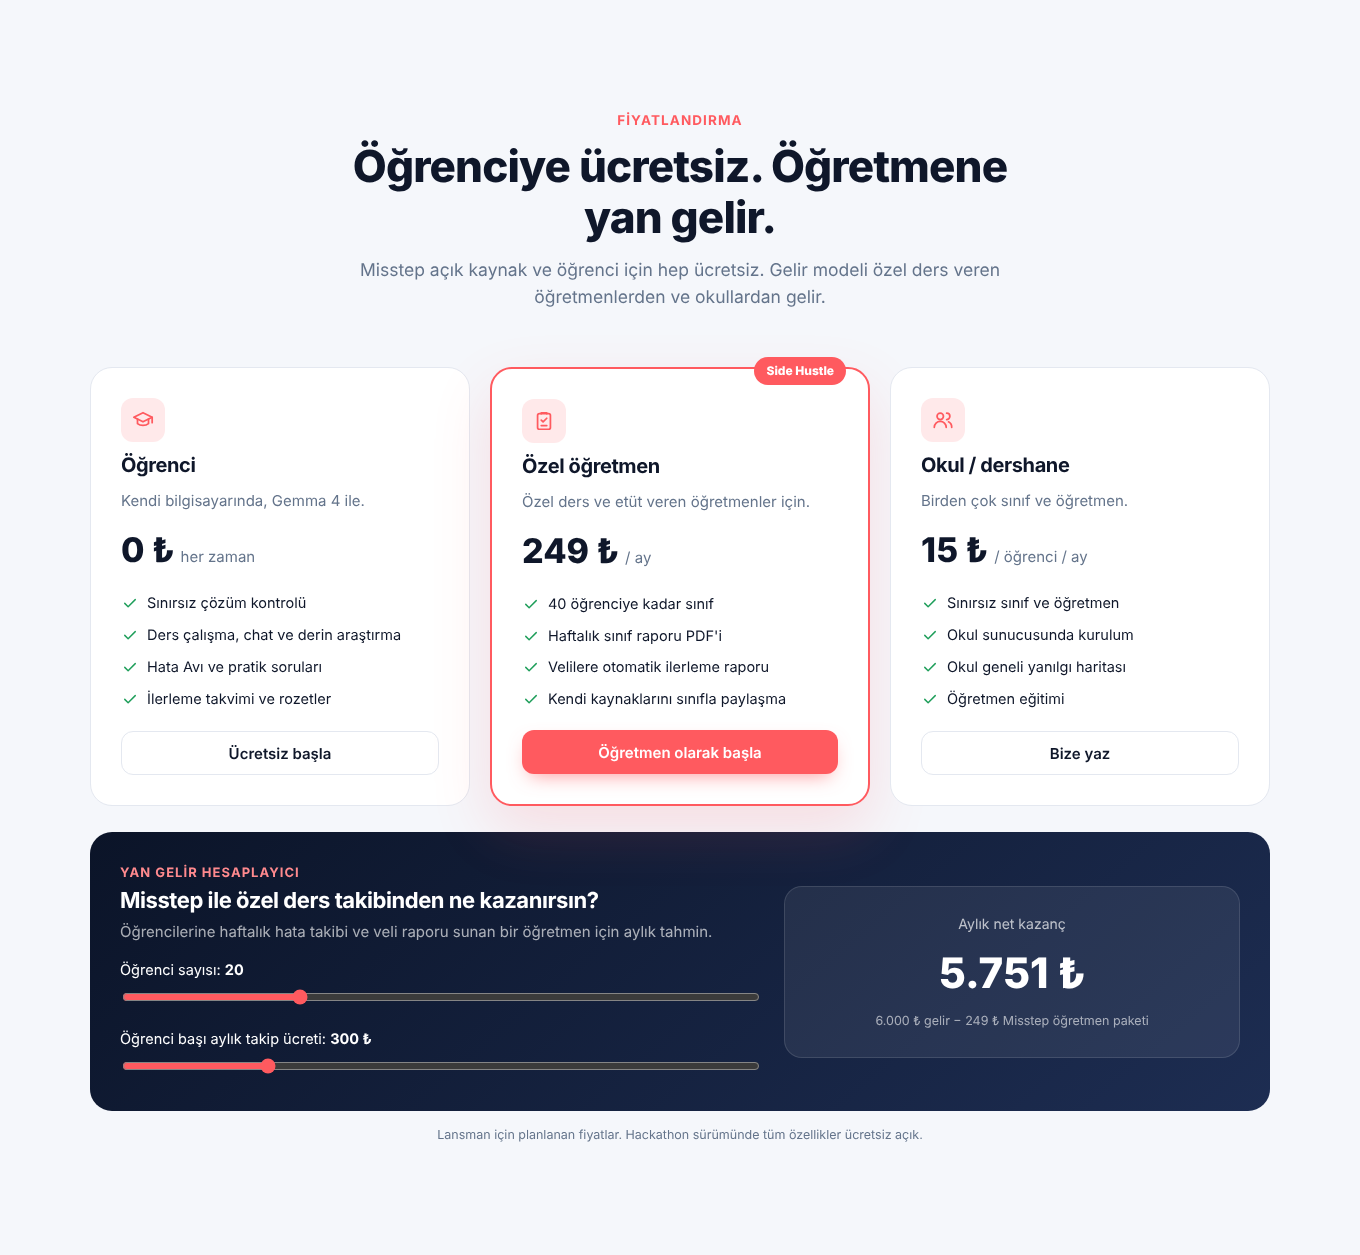
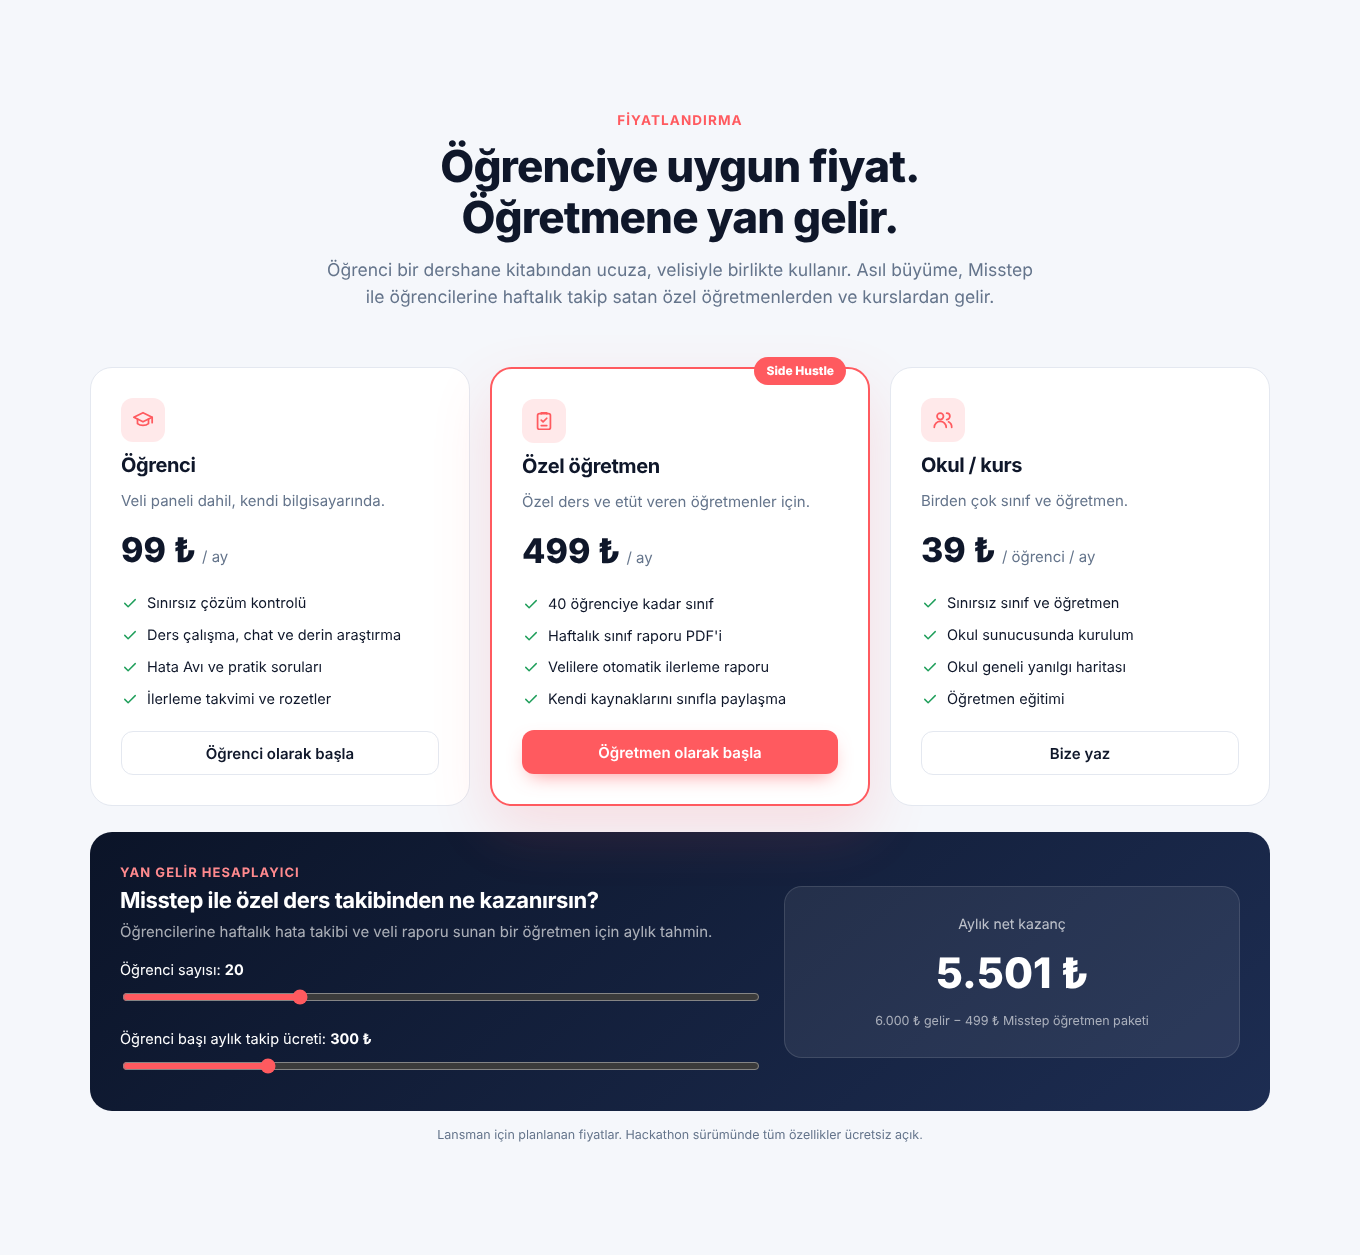
Update planned prices: student 99, tutor 499, school 39 per student
Claude-Session: https://claude.ai/code/session_01Pdp144xZmzqroQPSBkhPAh

diff --git a/web/js/i18n.js b/web/js/i18n.js
@@ -2,7 +2,7 @@
 const T = {
   tr: {
     nav_how: "Nasıl çalışır", nav_features: "Özellikler", nav_roles: "Kimler için", nav_about: "Hakkında", nav_contact: "İletişim",
-    login: "Giriş yap", register: "Üye ol", start_free: "Ücretsiz başla", see_how: "Nasıl çalışır?", go_app: "Panele git",
+    login: "Giriş yap", register: "Üye ol", start_free: "Hemen başla", see_how: "Nasıl çalışır?", go_app: "Panele git",
 
     hero_eyebrow: "Yeni", hero_eyebrow_t: "Gemma 4 ile çalışan yerel çalışma arkadaşı",
     hero_title_1: "Yanlış cevabı değil,", hero_title_2: "yanlış adımı", hero_title_3: "bul.",
@@ -51,7 +51,7 @@ const T = {
     q1: "Model yanlış bir şeyi doğru diye gösterebilir mi?", a1: "Hayır. Gemma 4 yalnızca okur ve anlatır. Bir adımın doğru ya da yanlış olduğuna SymPy karar verir; modelin cümleleri bu kararı değiştiremez.",
     q2: "İnternet bağlantısı gerekir mi?", a2: "Hayır. Model, veritabanı ve tüm hesaplamalar senin bilgisayarında çalışır. Öğrenci verisi dışarı gönderilmez.",
     q3: "Hangi konuları kapsıyor?", a3: "7–10. sınıf cebir: parantez ve dağılma, denklem çözme, terimler, kesirler, özdeşlikler, üslü ve köklü ifadeler, ikinci dereceden denklemler.",
-    q4: "Ücretli mi?", a4: "Öğrenciler için ücretsiz. Okullar ve dershaneler için sınıf yönetimi ve raporlama sunan bir kurum planı düşünüyoruz.",
+    q4: "Ücretli mi?", a4: "Öğrenci paketi aylık 99 ₺ ve veli panelini de içerir. Özel öğretmen paketi 499 ₺/ay, okul ve kurs paketi öğrenci başı 39 ₺/ay. Kod açık kaynaktır; hackathon sürümünde her şey açık.",
 
     cta_t: "Bir sonraki hatan, en iyi öğretmenin olsun.", cta_p: "Hesabını oluştur, ilk çözümünü bir dakikada kontrol et.",
     foot_desc: "Cebir çözümlerinde hatanın yapıldığı adımı bulan, yerel çalışan açık kaynak çalışma arkadaşı.",
@@ -165,7 +165,7 @@ const T = {
   },
   en: {
     nav_how: "How it works", nav_features: "Features", nav_roles: "Who it's for", nav_about: "About", nav_contact: "Contact",
-    login: "Log in", register: "Sign up", start_free: "Start for free", see_how: "How does it work?", go_app: "Go to dashboard",
+    login: "Log in", register: "Sign up", start_free: "Get started", see_how: "How does it work?", go_app: "Go to dashboard",
 
     hero_eyebrow: "New", hero_eyebrow_t: "A local study companion powered by Gemma 4",
     hero_title_1: "Don't find the wrong answer,", hero_title_2: "find the wrong step", hero_title_3: ".",
@@ -214,7 +214,7 @@ const T = {
     q1: "Can the model mark something wrong as correct?", a1: "No. Gemma 4 only reads and explains. SymPy decides whether a step is right; the model's words cannot change that decision.",
     q2: "Does it need the internet?", a2: "No. The model, the database and all computation run on your computer. Student data is never sent anywhere.",
     q3: "Which topics are covered?", a3: "Grade 7–10 algebra: brackets, solving equations, terms, fractions, identities, powers and roots, quadratic equations.",
-    q4: "Is it paid?", a4: "Free for students. We plan an institution plan for schools with class management and reporting.",
+    q4: "Is it paid?", a4: "The student plan is ₺99 a month and includes the parent panel. The tutor plan is ₺499 a month, schools and courses pay ₺39 per student a month. The code is open source; everything is open in the hackathon build.",
 
     cta_t: "Let your next mistake be your best teacher.", cta_p: "Create your account and check your first solution in a minute.",
     foot_desc: "An open-source, local study companion that finds the step where an algebra solution went wrong.",
@@ -527,16 +527,16 @@ Object.assign(T.tr, {
   why_r1: "Sorunun doğru cevabını gösterir", why_r2: "Öğrencinin KENDİ çözümünde ilk hatalı adımı bulur",
   why_r3: "Hatanın arkasındaki yanılgıyı adlandırır (13 yanılgı)", why_r4: "SymPy ile doğrulanmış teşhis soruları üretir",
   why_r5: "Bilgisayarda çalışır, öğrencinin verisi dışarı çıkmaz", why_r6: "Öğretmene sınıf, veliye çocuk raporu verir",
-  pr_k: "Fiyatlandırma", pr_t: "Öğrenciye ücretsiz. Öğretmene yan gelir.",
-  pr_p: "Misstep açık kaynak ve öğrenci için hep ücretsiz. Gelir modeli özel ders veren öğretmenlerden ve okullardan gelir.",
+  pr_k: "Fiyatlandırma", pr_t: "Öğrenciye uygun fiyat. Öğretmene yan gelir.",
+  pr_p: "Öğrenci bir dershane kitabından ucuza, velisiyle birlikte kullanır. Asıl büyüme, Misstep ile öğrencilerine haftalık takip satan özel öğretmenlerden ve kurslardan gelir.",
   pr_hot: "Side Hustle", pr_note: "Lansman için planlanan fiyatlar. Hackathon sürümünde tüm özellikler ücretsiz açık.",
-  pl_free: "Öğrenci", pl_free_d: "Kendi bilgisayarında, Gemma 4 ile.", pl_free_p: "0 ₺", pl_free_u: "her zaman",
+  pl_free: "Öğrenci", pl_free_d: "Veli paneli dahil, kendi bilgisayarında.", pl_free_p: "99 ₺", pl_free_u: "/ ay",
   pl_free1: "Sınırsız çözüm kontrolü", pl_free2: "Ders çalışma, chat ve derin araştırma", pl_free3: "Hata Avı ve pratik soruları", pl_free4: "İlerleme takvimi ve rozetler",
-  pl_free_cta: "Ücretsiz başla",
-  pl_tutor: "Özel öğretmen", pl_tutor_d: "Özel ders ve etüt veren öğretmenler için.", pl_tutor_p: "249 ₺", pl_tutor_u: "/ ay",
+  pl_free_cta: "Öğrenci olarak başla",
+  pl_tutor: "Özel öğretmen", pl_tutor_d: "Özel ders ve etüt veren öğretmenler için.", pl_tutor_p: "499 ₺", pl_tutor_u: "/ ay",
   pl_tutor1: "40 öğrenciye kadar sınıf", pl_tutor2: "Haftalık sınıf raporu PDF'i", pl_tutor3: "Velilere otomatik ilerleme raporu", pl_tutor4: "Kendi kaynaklarını sınıfla paylaşma",
   pl_tutor_cta: "Öğretmen olarak başla",
-  pl_school: "Okul / dershane", pl_school_d: "Birden çok sınıf ve öğretmen.", pl_school_p: "15 ₺", pl_school_u: "/ öğrenci / ay",
+  pl_school: "Okul / kurs", pl_school_d: "Birden çok sınıf ve öğretmen.", pl_school_p: "39 ₺", pl_school_u: "/ öğrenci / ay",
   pl_school1: "Sınırsız sınıf ve öğretmen", pl_school2: "Okul sunucusunda kurulum", pl_school3: "Okul geneli yanılgı haritası", pl_school4: "Öğretmen eğitimi",
   pl_school_cta: "Bize yaz",
   earn_k: "Yan gelir hesaplayıcı", earn_t: "Misstep ile özel ders takibinden ne kazanırsın?",
@@ -553,16 +553,16 @@ Object.assign(T.en, {
   why_r1: "Shows the correct answer", why_r2: "Finds the first wrong step in the student's OWN solution",
   why_r3: "Names the misconception behind it (13 misconceptions)", why_r4: "Generates diagnostic questions verified by SymPy",
   why_r5: "Runs on your computer; the student's data never leaves it", why_r6: "Class reports for teachers, child reports for parents",
-  pr_k: "Pricing", pr_t: "Free for students. A side income for teachers.",
-  pr_p: "Misstep is open source and always free for students. Revenue comes from tutors and schools.",
+  pr_k: "Pricing", pr_t: "Affordable for students. A side income for teachers.",
+  pr_p: "A student pays less than a prep book, and the parent panel is included. Growth comes from tutors and courses who sell weekly follow-up with Misstep.",
   pr_hot: "Side Hustle", pr_note: "Planned launch prices. Everything is free in the hackathon build.",
-  pl_free: "Student", pl_free_d: "On your own computer, with Gemma 4.", pl_free_p: "₺0", pl_free_u: "forever",
+  pl_free: "Student", pl_free_d: "Parent panel included, on your own computer.", pl_free_p: "₺99", pl_free_u: "/ month",
   pl_free1: "Unlimited solution checks", pl_free2: "Study chat and deep research", pl_free3: "Mistake Hunt and practice", pl_free4: "Progress calendar and badges",
-  pl_free_cta: "Start free",
-  pl_tutor: "Tutor", pl_tutor_d: "For private tutors and study centres.", pl_tutor_p: "₺249", pl_tutor_u: "/ month",
+  pl_free_cta: "Start as a student",
+  pl_tutor: "Tutor", pl_tutor_d: "For private tutors and study centres.", pl_tutor_p: "₺499", pl_tutor_u: "/ month",
   pl_tutor1: "A class of up to 40 students", pl_tutor2: "Weekly class report PDF", pl_tutor3: "Automatic progress reports for parents", pl_tutor4: "Share your own materials with the class",
   pl_tutor_cta: "Start as a teacher",
-  pl_school: "School", pl_school_d: "Many classes and teachers.", pl_school_p: "₺15", pl_school_u: "/ student / month",
+  pl_school: "School / course", pl_school_d: "Many classes and teachers.", pl_school_p: "₺39", pl_school_u: "/ student / month",
   pl_school1: "Unlimited classes and teachers", pl_school2: "Installed on the school's server", pl_school3: "School-wide misconception map", pl_school4: "Teacher training",
   pl_school_cta: "Contact us",
   earn_k: "Side income calculator", earn_t: "What can you earn tutoring with Misstep?",

diff --git a/web/js/landing.js b/web/js/landing.js
@@ -222,7 +222,7 @@ export async function renderLanding(root) {
 }
 
 // "Side hustle" calculator: what a tutor earns running Misstep-backed weekly follow-ups for paying students.
-const TUTOR_PLAN = 249;
+const TUTOR_PLAN = 499;
 function wireEarn(root) {
   const n = $("#en", root), f = $("#ef", root);
   const tl = (v) => `${v.toLocaleString(getLang() === "en" ? "en-US" : "tr-TR")} ₺`;

diff --git a/README.md b/README.md
@@ -91,18 +91,18 @@ A hand-written evaluation set: 43 solutions covering all 13 misconceptions. Run 
 
 Every failing case is listed in the output and on the About page.
 
-## Business model: free for students, a side income for tutors
+## Business model: affordable for students, a side income for tutors
 ![Pricing](assets/screenshot-pricing.png)
 
-The student app is open source and free forever. Revenue comes from the people who use Misstep with paying students. The prices below are planned launch prices; the hackathon build is free.
+The code is open source (MIT). The paid plans cover a ready-to-run install, updates and support. Growth comes from tutors and courses who sell weekly follow-up to their students. The prices below are planned launch prices; everything is open in the hackathon build.
 
 | Plan | Price | For |
 | --- | --- | --- |
-| Student | ₺0 | Unlimited checks, study chat, deep research, practice, Mistake Hunt |
-| Tutor | ₺249 / month | Private tutors: a class of up to 40, weekly class PDF, automatic parent reports |
-| School | ₺15 / student / month | Many classes, install on the school's server, school-wide misconception map |
+| Student | ₺99 / month | Unlimited checks, study chat, deep research, practice, Mistake Hunt; parent panel included |
+| Tutor | ₺499 / month | Private tutors: a class of up to 40, weekly class PDF, automatic parent reports |
+| School / course | ₺39 / student / month | Many classes, install on the school's server, school-wide misconception map |
 
-The landing page includes a **side-income calculator**. For example, a tutor who charges 30 students ₺300 a month for weekly mistake tracking earns ₺9,000 against a ₺249 plan. The pitch and the 3-minute demo script are in [PITCH.md](PITCH.md). The full technical report (models, architecture, verification, RAG, evaluation, limits) is in [docs/TEKNIK-RAPOR.md](docs/TEKNIK-RAPOR.md).
+The landing page includes a **side-income calculator**. For example, a tutor who charges 30 students ₺300 a month for weekly mistake tracking earns ₺9,000 against a ₺499 plan. The pitch and the 3-minute demo script are in [PITCH.md](PITCH.md). The full technical report (models, architecture, verification, RAG, evaluation, limits) is in [docs/TEKNIK-RAPOR.md](docs/TEKNIK-RAPOR.md).
 
 ## Quick start
 ```bash
@@ -164,7 +164,7 @@ samples/               sample study PDFs
 Passwords are stored as salted PBKDF2 hashes in a local SQLite file. No data is sent anywhere.
 
 ## Türkçe özet
-Misstep, 7–10. sınıf cebir için yerel ve açık kaynak bir çalışma arkadaşıdır. Öğrencinin el yazısı çözümünü Gemma 4 ile okur ve SymPy ile her adımı doğrular. İlk hatalı adımı ve arkasındaki yanılgıyı bulur, notlardan kaynaklı açıklama yapar ve o yanılgıya özel doğrulanmış sorular üretir. Konu bazında ilerlemeyi takip eder. Öğretmene sınıf tablosu ve haftalık PDF, veliye çocuk raporu sunar. Öğrenciye ücretsizdir; gelir, özel ders veren öğretmenlerden ve okullardan gelir.
+Misstep, 7–10. sınıf cebir için yerel ve açık kaynak bir çalışma arkadaşıdır. Öğrencinin el yazısı çözümünü Gemma 4 ile okur ve SymPy ile her adımı doğrular. İlk hatalı adımı ve arkasındaki yanılgıyı bulur, notlardan kaynaklı açıklama yapar ve o yanılgıya özel doğrulanmış sorular üretir. Konu bazında ilerlemeyi takip eder. Öğretmene sınıf tablosu ve haftalık PDF, veliye çocuk raporu sunar. Öğrenci paketi 99 ₺/ay (veli dahil), özel öğretmen paketi 499 ₺/ay, okul ve kurs paketi öğrenci başı 39 ₺/ay.
 
 ## License
 MIT. DejaVu fonts are under their own license (`assets/fonts/README.txt`).

diff --git a/PITCH.md b/PITCH.md
@@ -6,19 +6,19 @@
 ## Kime satıyoruz
 | Kim | Acısı | Misstep ne verir | Kim öder |
 |---|---|---|---|
-| 7–10. sınıf öğrenci (LGS / lise) | Cevabı görüyor ama neden yanlış yaptığını bilmiyor | İlk hatalı adım + yanılgının adı + doğrulanmış teşhis soruları | Ücretsiz |
-| **Özel ders öğretmeni** (Side Hustle) | Her hafta kâğıt okumak saatler alıyor, veliye rapor vermek zor | Sınıf tablosu, haftalık PDF, veli raporu | 249 ₺/ay |
-| Okul / dershane | Sınıfta hangi yanılgı yaygın bilinmiyor, veri gizliliği | Okul sunucusunda kurulum, yanılgı haritası | 15 ₺/öğrenci/ay |
-| Veli | Çocuğun neyde zorlandığını göremiyor | Çocuk başına ilerleme ve zayıf konu | Öğretmen paketine dahil |
+| 7–10. sınıf öğrenci (LGS / lise) | Cevabı görüyor ama neden yanlış yaptığını bilmiyor | İlk hatalı adım + yanılgının adı + doğrulanmış teşhis soruları | 99 ₺/ay (veli dahil) |
+| **Özel ders öğretmeni** (Side Hustle) | Her hafta kâğıt okumak saatler alıyor, veliye rapor vermek zor | Sınıf tablosu, haftalık PDF, veli raporu | 499 ₺/ay |
+| Okul / dershane | Sınıfta hangi yanılgı yaygın bilinmiyor, veri gizliliği | Okul sunucusunda kurulum, yanılgı haritası | 39 ₺/öğrenci/ay |
+| Veli | Çocuğun neyde zorlandığını göremiyor | Çocuk başına ilerleme ve zayıf konu | Öğrenci ve öğretmen paketine dahil |
 
-**Side Hustle hikayesi:** 30 öğrencili bir özel ders öğretmeni öğrenci başı 300 ₺ "haftalık hata takibi" alırsa ayda 9.000 ₺ gelir, 249 ₺ gider (sitedeki hesaplayıcı bunu canlı gösterir). Öğrenci tarafı açık kaynak ve ücretsiz kalır; büyüme öğrenciden öğretmene doğru olur.
+**Side Hustle hikayesi:** 30 öğrencili bir özel ders öğretmeni öğrenci başı 300 ₺ "haftalık hata takibi" alırsa ayda 9.000 ₺ gelir, 499 ₺ gider (sitedeki hesaplayıcı bunu canlı gösterir). Kod açık kaynak kalır; ücretli paketler hazır kurulum, güncelleme ve destek içerir.
 
 ## Jüriye 3 dakikalık demo
 1. **0:00 Sorun (20 sn).** "Öğrenci 3x − (x + 3) = 7 yazıyor, 2. satırda −3 yerine +3 yazıyor. Cevap uygulaması x = 5 der, geçer. Öğrenci aynı hatayı sınavda tekrar yapar."
 2. **0:20 Fotoğraf (60 sn).** Öğrenci demosu, Analiz et, el yazısı fotoğraf. Gemma 4 satırları okur, SymPy her adımı kontrol eder, 2. adım kırmızı, "eksi parantezin yalnızca ilk terimine dağıtılmış". Ardından doğrulanmış 3 teşhis sorusu.
 3. **1:20 Ders çalış (30 sn).** Asistana sor (kaynaklı cevap, K1 K2) ve Derin araştırma, PDF rapor.
 4. **1:50 Öğretmen (30 sn).** Hesap değiştir, Öğretmen, sınıf tablosu (yanlış sayısına göre sırala), haftalık PDF.
-5. **2:20 İş modeli (30 sn).** Ana sayfa, Fiyatlar, hesaplayıcıyı kaydır. "Öğrenciye ücretsiz, öğretmene yan gelir."
+5. **2:20 İş modeli (30 sn).** Ana sayfa, Fiyatlar, hesaplayıcıyı kaydır. "Öğrenciye uygun fiyat, öğretmene yan gelir."
 6. **2:50 Kapanış (10 sn).** "43 vakalık değerlendirme setimiz var, sonuçlar Hakkında sayfasında. Hepsi açık kaynak ve internetsiz çalışıyor."
 
 ## Jürinin puanladığı yerler
